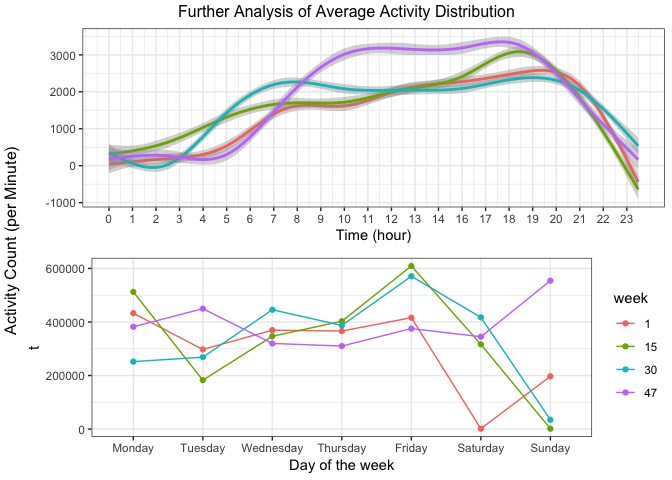
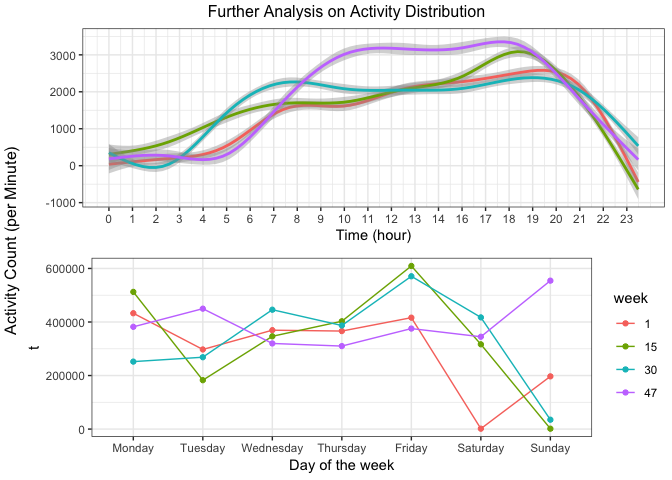
few arrangement edits

Changed region(s): [[0.25, 0.0, 0.7812, 0.0625]]

diff --git a/p8105_mtp_tt2714.md b/p8105_mtp_tt2714.md
@@ -92,7 +92,7 @@ each week. We do see drastic decrease during week 3 and week 12, but the
 individual was able to get back on track and eventually improve his
 activity count by week 47.
 
-### Looking at selected weeks
+### Activity on selected weeks
 
 Let’s take a look at week 1, 15, 30, and 47…
 
@@ -116,7 +116,19 @@ week_plot2 = ggplot(week_analysis %>% select(-day) %>%
 ```
 
 ``` r
-grid.arrange(week_plot2, week_plot1, top = "Further Analysis of Average Activity Distribution", left = "Activity Count (per Minute)")
+grid.arrange(week_plot2, week_plot1, top = "Further Analysis on Activity Distribution", left = "Activity Count (per Minute)")
 ```
 
 ![](p8105_mtp_tt2714_files/figure-gfm/unnamed-chunk-3-1.png)<!-- -->
+
+We are not able to extract that much information from the simple average
+activity count plot, so let’s take a look at 4 particular weeks.
+Activity distribution over time shows a greater improvement for week 47
+during the hours of 8 and 18. Other hours through the day seem much more
+variable. While there is visiable improvement for week 47, the other 3
+weeks does not seem to show much difference in distribution.
+
+Activity distribution over days of the week show more activity in week
+47 for Tuesday and Sundays. Week 15 and 30 also appear as the largest
+activity count compared to other weeks for a given day. Week 1 remains
+under the maximum average activity count for all days of the week.
